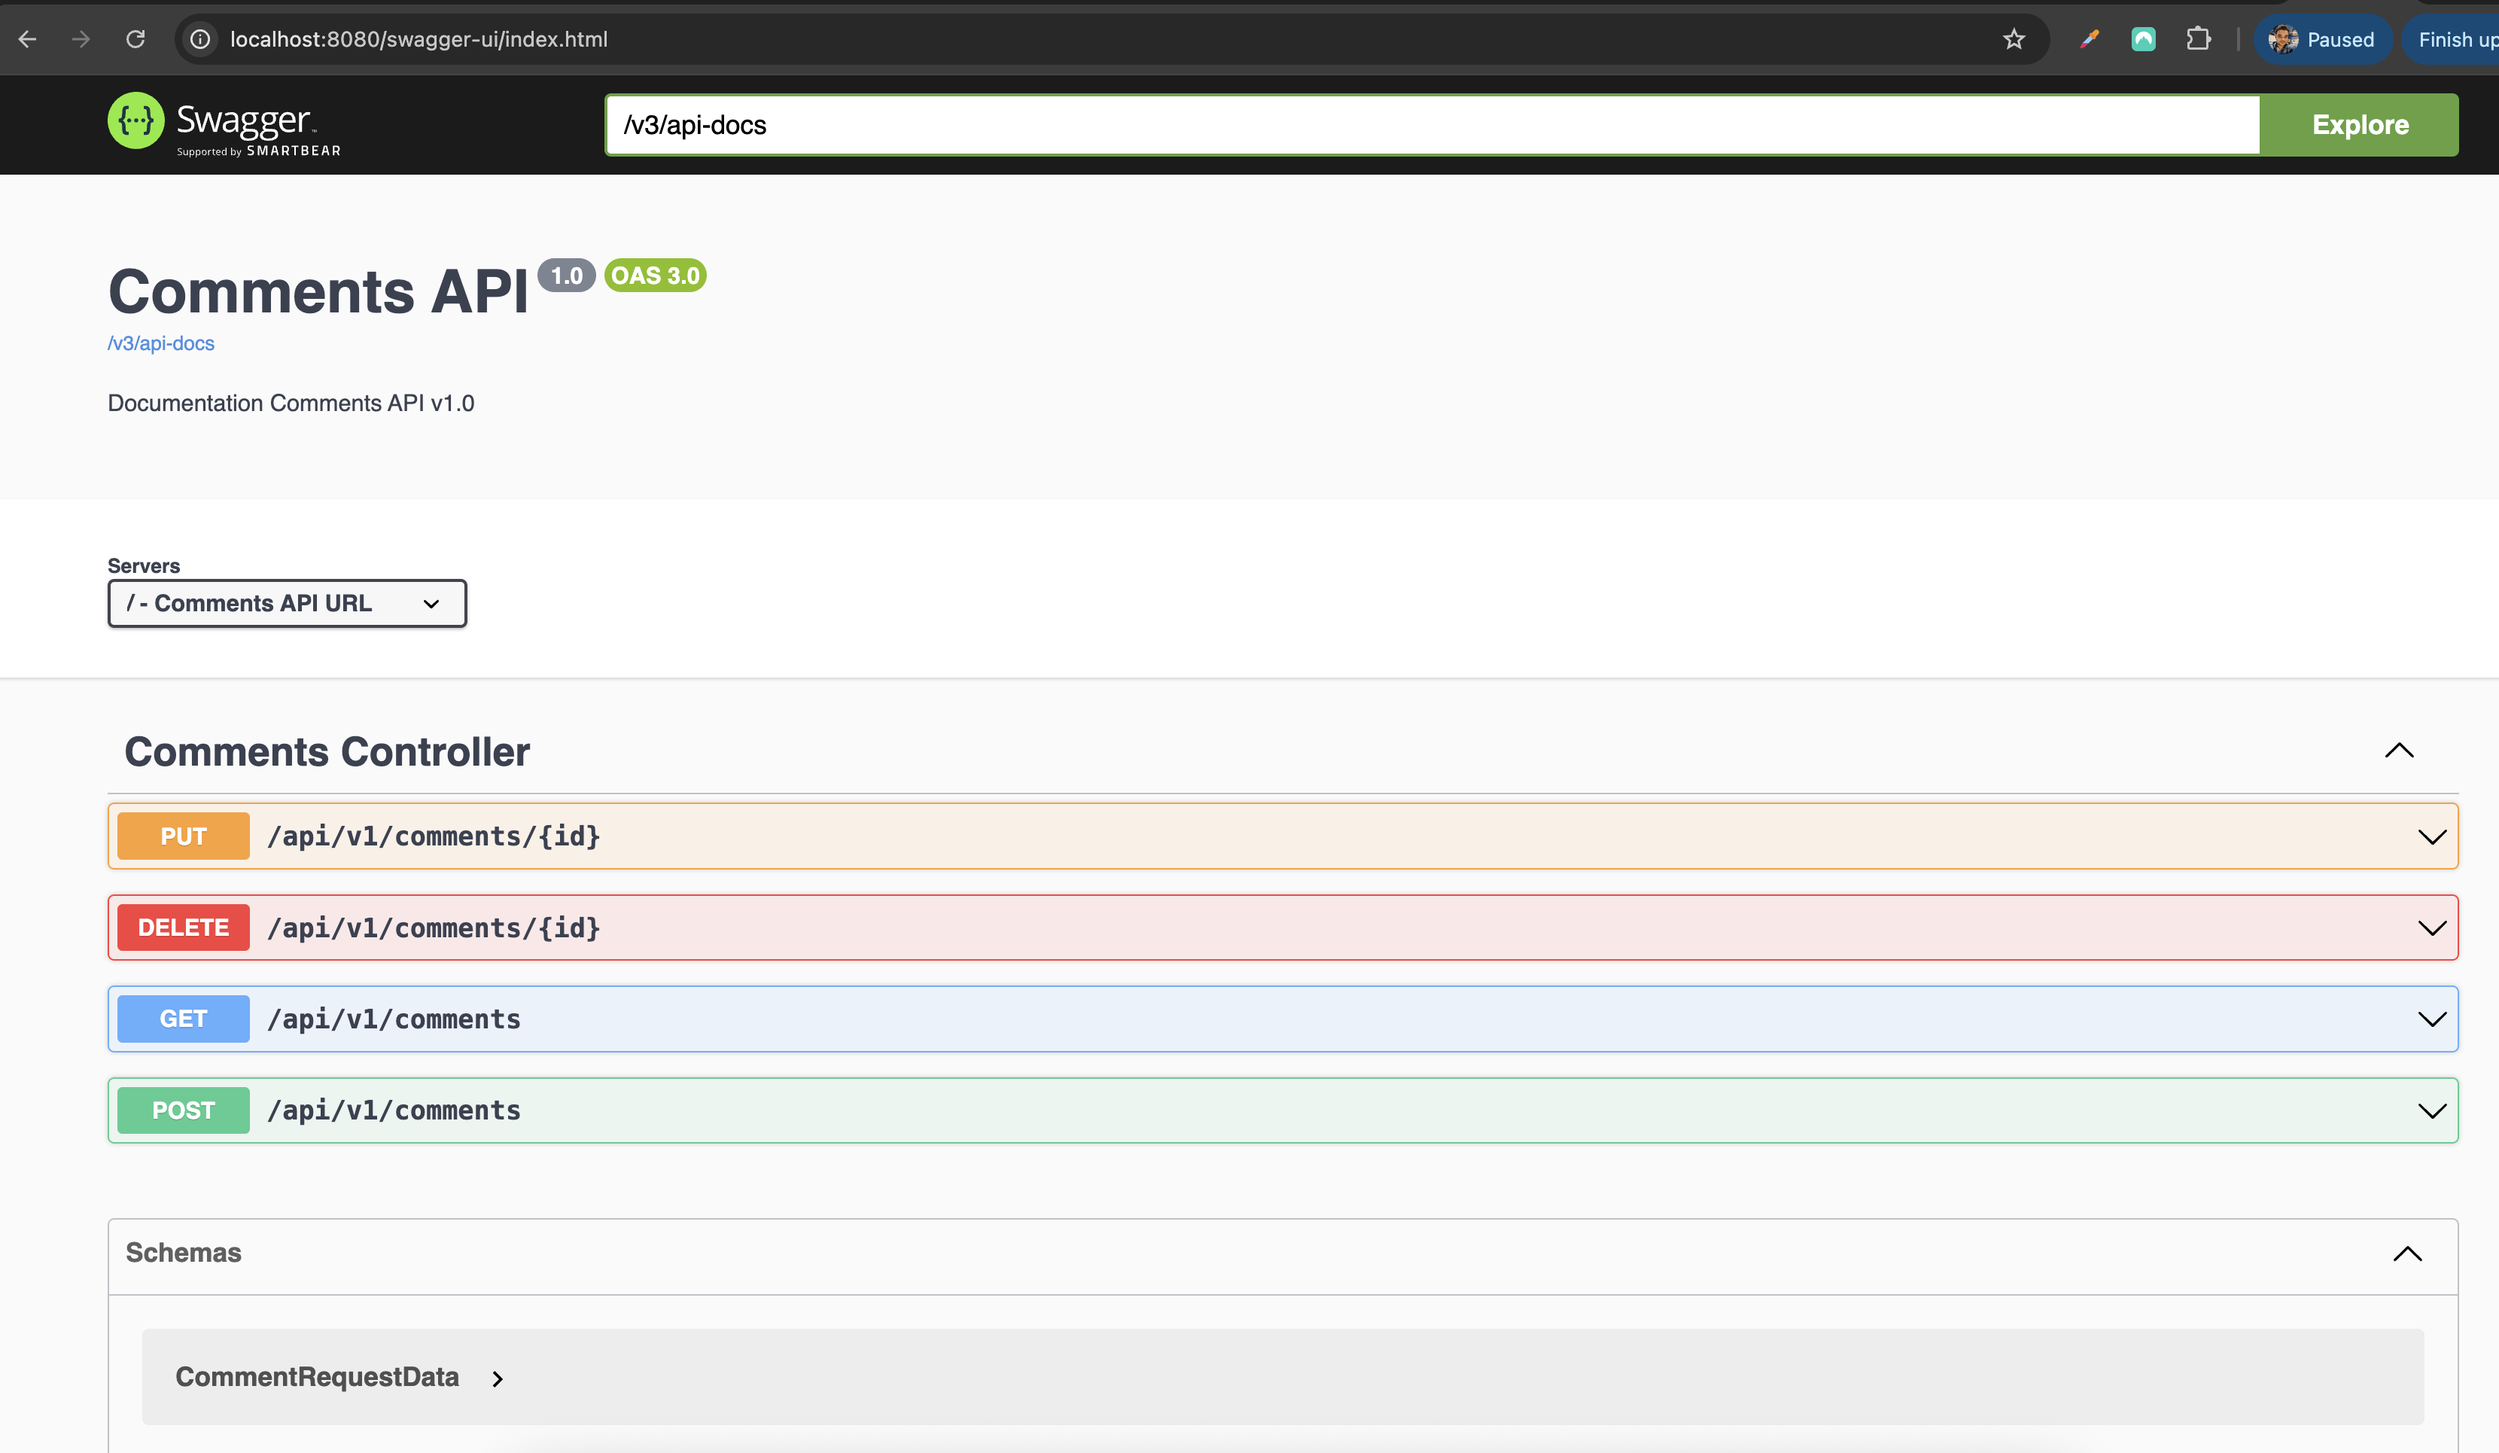
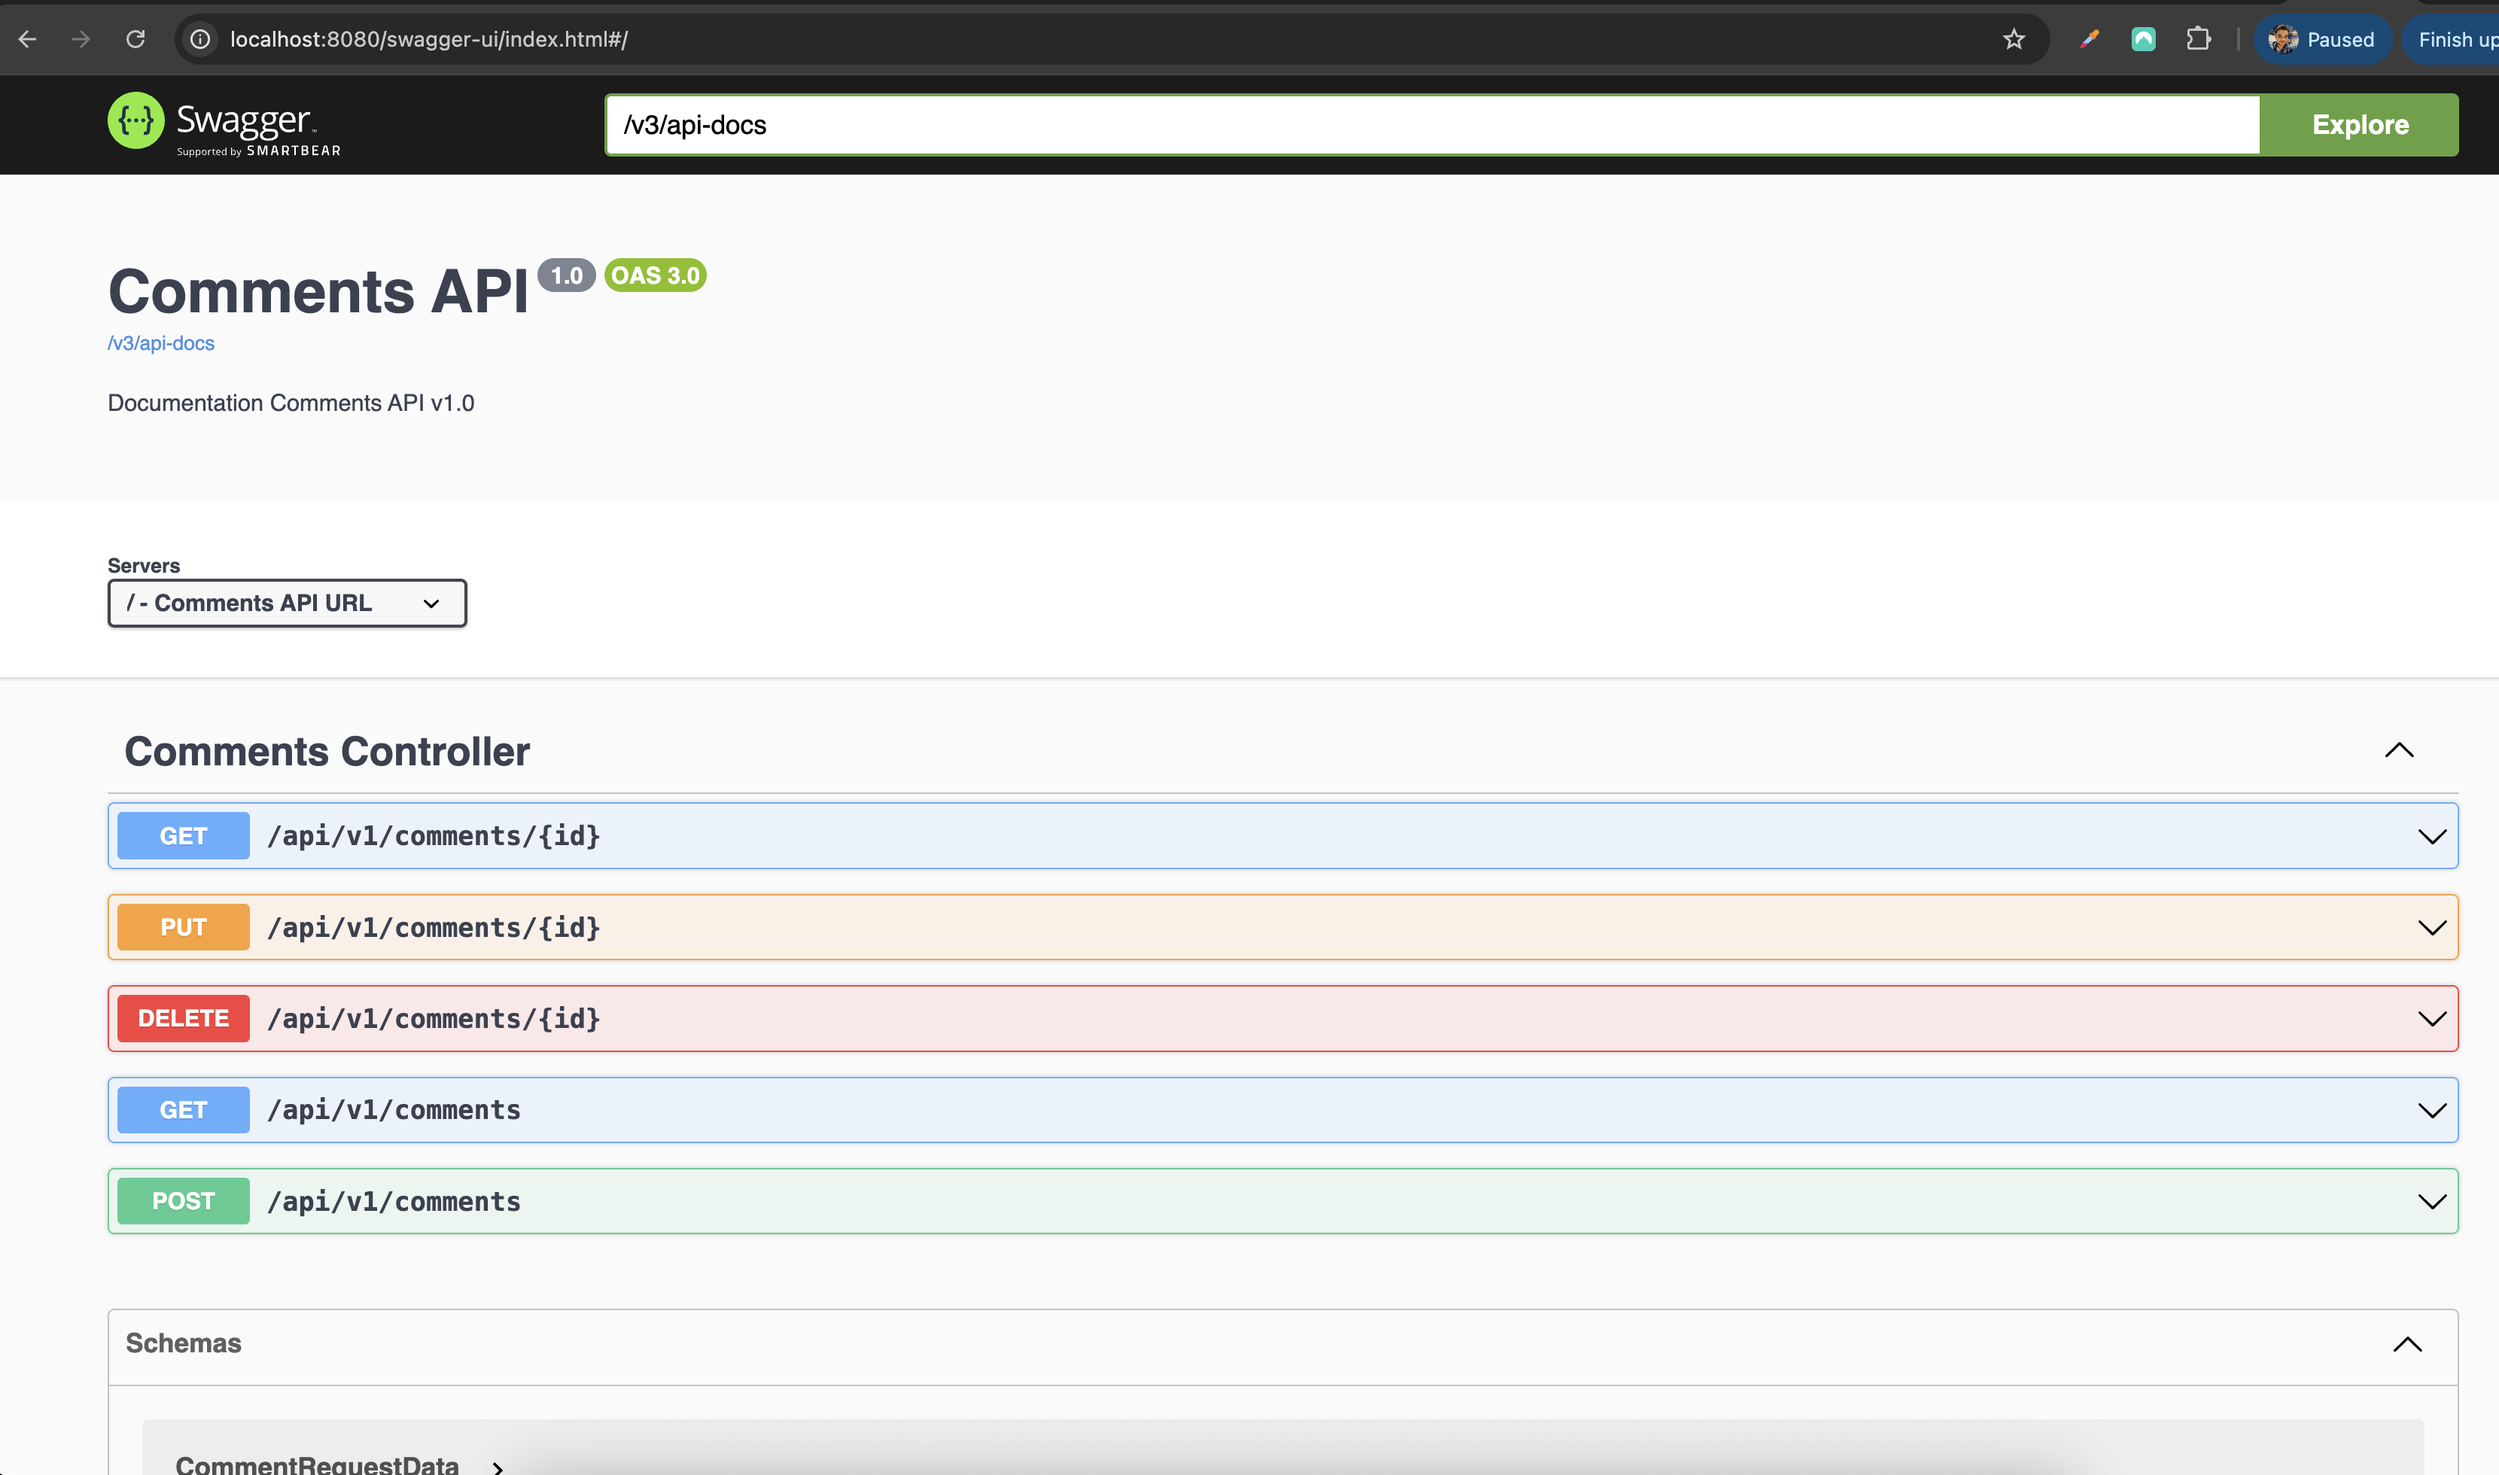
added another api

diff --git a/src/main/java/com/almighty/controller/CommentsController.java b/src/main/java/com/almighty/controller/CommentsController.java
@@ -20,10 +20,15 @@ public class CommentsController {
 	private final CommentsService service;
 
 	@GetMapping
-	public ResponseEntity<ResponseData> getAllComments(@RequestParam(required = false) String parentId,
+	public ResponseEntity<ResponseData> getComments(@RequestParam(required = false) String parentId,
 			@RequestParam(defaultValue = "1") int page, @RequestParam(defaultValue = "5") int pageSize) {
 		return ResponseEntity.ok(service
-				.allComments(CommentRequestData.builder().parentId(parentId).page(page).pageSize(pageSize).build()));
+				.getComments(CommentRequestData.builder().parentId(parentId).page(page).pageSize(pageSize).build()));
+	}
+
+	@GetMapping("/{id}")
+	public ResponseEntity<ResponseData> getCommentById(@PathVariable String id) {
+		return ResponseEntity.ok(service.getComment(id));
 	}
 
 	@PostMapping
@@ -36,8 +41,8 @@ public class CommentsController {
 	@PutMapping("/{id}")
 	public ResponseEntity<ResponseData> updateComment(@PathVariable String id,
 			@RequestBody CommentRequestData requestData) {
-		return ResponseEntity.status(HttpStatus.ACCEPTED)
-				.body(service.saveOrUpdateComment(CommentRequestData.builder().id(id).text(requestData.getText()).build()));
+		return ResponseEntity.status(HttpStatus.ACCEPTED).body(
+				service.saveOrUpdateComment(CommentRequestData.builder().id(id).text(requestData.getText()).build()));
 	}
 
 	@DeleteMapping("/{id}")

diff --git a/src/main/java/com/almighty/service/impl/CommentsServiceImpl.java b/src/main/java/com/almighty/service/impl/CommentsServiceImpl.java
@@ -30,7 +30,17 @@ public class CommentsServiceImpl implements CommentsService {
 	private final CommentsRepository repository;
 
 	@Override
-	public ResponseData allComments(CommentRequestData requestData) {
+	public ResponseData getComment(String id) {
+		Comments comment = repository.findById(id).orElse(null);
+		if (comment == null) {
+			return ResponseData.builder().status(Status.FAILURE).message(COMMENT_ID_INVALID).build();
+		}
+		return CommentResponseData.builder().id(comment.getId()).text(comment.getText()).parentId(comment.getParentId())
+				.postedAt(comment.getUpdatedAt()).status(Status.SUCCESS).message(COMMENT_FETCHED_SUCCESS).build();
+	}
+
+	@Override
+	public ResponseData getComments(CommentRequestData requestData) {
 		int page = requestData.getPage() != null && requestData.getPage() > 0 ? requestData.getPage() - 1 : 0;
 		int pageSize = requestData.getPageSize() != null && requestData.getPageSize() > 0 ? requestData.getPageSize()
 				: 5;

diff --git a/src/main/java/com/almighty/constants/CommentMessages.java b/src/main/java/com/almighty/constants/CommentMessages.java
@@ -10,5 +10,6 @@ public final class CommentMessages {
 	public static final String COMMENT_UPDATED_SUCCESS = "Comment updated successfully.";
 	public static final String COMMENT_SAVED_SUCCESS = "Comment saved successfully.";
 	public static final String COMMENT_DELETED_SUCCESS = "Comment deleted successfully.";
+	public static final String COMMENT_FETCHED_SUCCESS = "Comment fetched successfully.";
 	public static final String COMMENTS_FETCHED_SUCCESS = "%d comment(s) fetched successfully.";
 }

diff --git a/src/main/java/com/almighty/data/response/CommentData.java b/src/main/java/com/almighty/data/response/CommentData.java
@@ -2,14 +2,14 @@ package com.almighty.data.response;
 
 import java.util.Date;
 
+import lombok.Builder;
 import lombok.Getter;
 import lombok.Setter;
-import lombok.experimental.SuperBuilder;
 
 @Getter
 @Setter
-@SuperBuilder
-public class CommentData extends ResponseData {
+@Builder
+public class CommentData {
     private String id;
     private String text;
     private String parentId;

diff --git a/src/main/java/com/almighty/service/CommentsService.java b/src/main/java/com/almighty/service/CommentsService.java
@@ -5,7 +5,9 @@ import com.almighty.data.response.ResponseData;
 
 public interface CommentsService {
 
-	ResponseData allComments(CommentRequestData requestData);
+	ResponseData getComment(String id);
+
+	ResponseData getComments(CommentRequestData requestData);
 
 	ResponseData saveOrUpdateComment(CommentRequestData requestData);
 

diff --git a/README.md b/README.md
@@ -8,7 +8,7 @@ Welcome to the **Comments API**! This project provides a comprehensive API for m
 
 Access the Swagger UI for API documentation and testing:
 
-**URL:** [http://localhost:8080/comments/swagger-ui/index.html](http://localhost:8080/comments/swagger-ui/index.html)
+**URL:** [http://localhost:8080/swagger-ui/index.html](http://localhost:8080/comments/swagger-ui/index.html)
 
 ---
 
